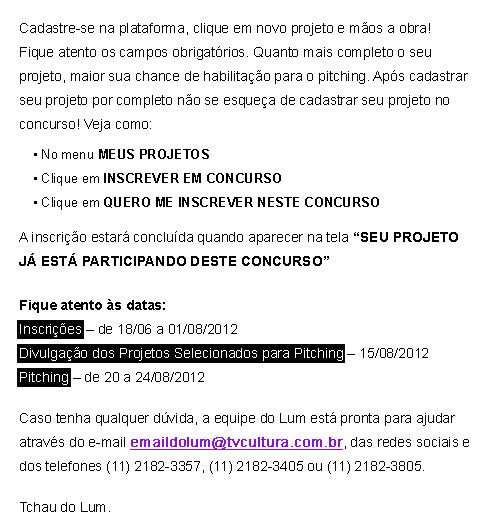
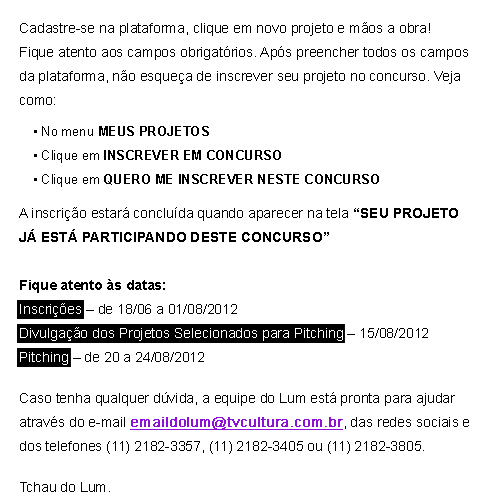
atualizacao lumlab

diff --git a/web/newsletter/lumlab/2607/index.html b/web/newsletter/lumlab/2607/index.html
@@ -44,9 +44,9 @@
 			<div class="conteudo">
 				<div class="box"><img src="images/img1.jpg" width="500" height="366" border="0" usemap="#Map1"/>
 </div>
-				<div class="box"><img src="images/img2.jpg" width="500" height="512" border="0" usemap="#Map2"/>
+				<div class="box"><img src="images/img2.jpg" width="500" height="492" border="0" usemap="#Map2"/>
     </div>
-				<div class="box"><img src="images/img3.jpg" width="500" height="150" border="0" usemap="#Map3"/>
+				<div class="box"><img src="images/img3.jpg" width="500" height="148" border="0" usemap="#Map3"/>
 				</div>
 			</div>
 		</div>
@@ -54,7 +54,7 @@
 			<area shape="rect" coords="131,306,374,347" href="http://www.lumlab.com.br/" target="_blank" alt="Lumlab" title="Lumlab" usemap="#map1" border="0">
 		</map>
 		<map name="Map2">
-			<area shape="rect" coords="129,430,346,452" href="mailto:emaildolum@tvcultura.com.br" target="_blank" alt="emaildolum@tvcultura.com.br" title="emaildolum@tvcultura.com.br" usemap="#map2" border="0">
+			<area shape="rect" coords="128,410,345,432" href="mailto:emaildolum@tvcultura.com.br" target="_blank" alt="emaildolum@tvcultura.com.br" title="emaildolum@tvcultura.com.br" usemap="#map2" border="0">
 </map>
 		<map name="Map3">
 			<area shape="rect" coords="216,63,288,140" href="http://tvcultura.cmais.com.br/" target="_blank" alt="TV Cultura" title="TV Cultura" usemap="#map3" border="0">
